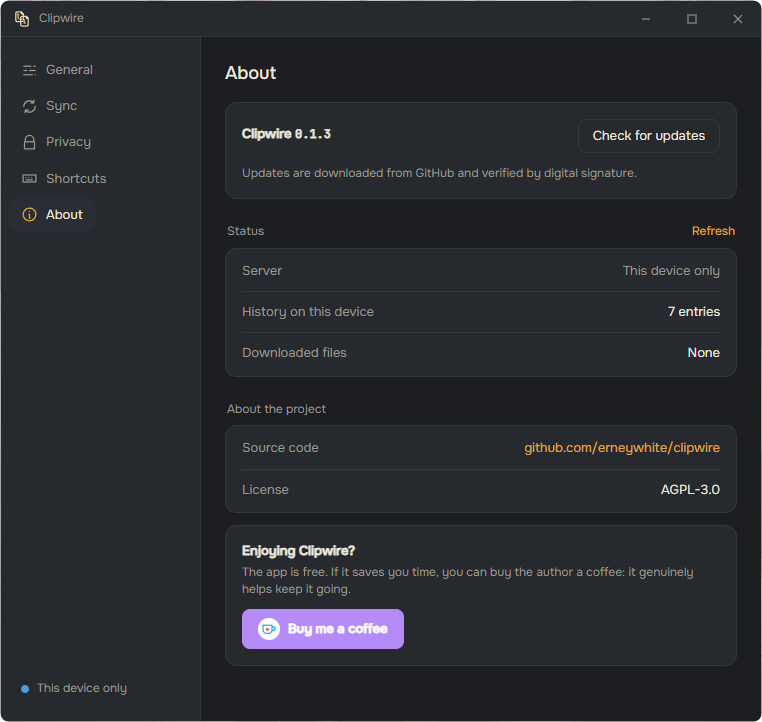
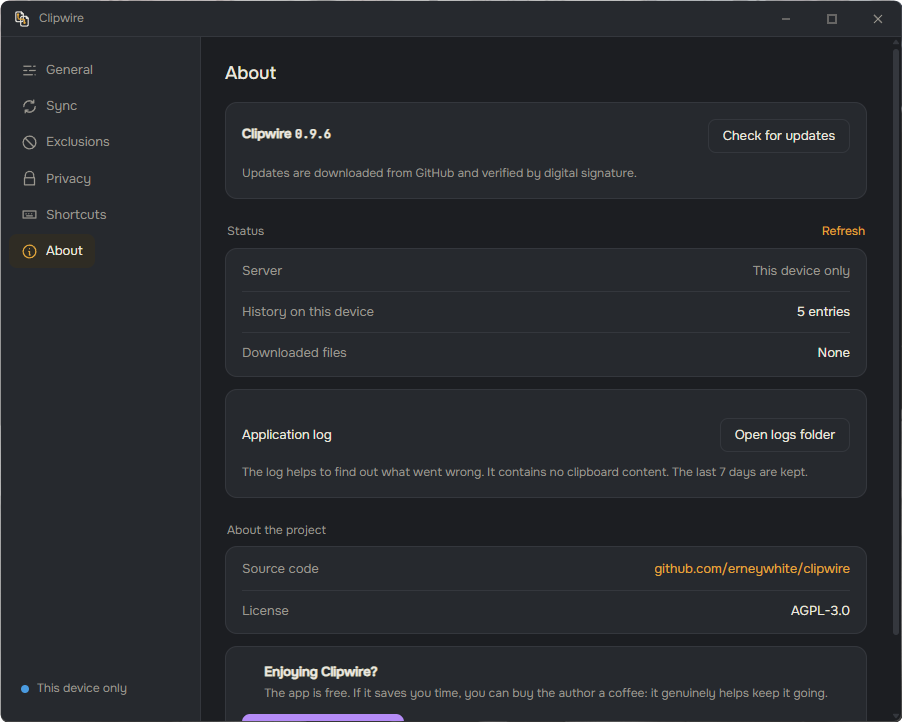
Новые скриншоты для README и превью репозитория
Пересняты с чистого экземпляра на демо-данных: окно вставки, предпросмотр,
«Основные», «Синхронизация», «О программе» и новый снимок «Исключений».

diff --git a/README.ru.md b/README.ru.md
@@ -274,6 +274,10 @@ Clipwire там идут через XWayland, чтобы программа са
 
 ## Исключения
 
+<p align="center">
+  <img src="docs/screenshots/settings-exclusions.png" width="600" alt="Исключения: что отправлять и правила для файлов и папок">
+</p>
+
 На вкладке «Исключения» в настройках собрано, что не уходит на другие устройства:
 - переключатели «Что отправлять»: текст, картинки, файлы, папки;
 - правила для файлов и папок: условие (расширение, имя начинается с, содержит, по маске со `*` и

diff --git a/README.md b/README.md
@@ -273,6 +273,10 @@ portal (the desktop may ask to confirm once). On Sway, which has none of these, 
 
 ## Exclusions
 
+<p align="center">
+  <img src="docs/screenshots/settings-exclusions.png" width="600" alt="Exclusions: what to send and rules for files and folders">
+</p>
+
 The **Exclusions** tab in settings gathers what doesn't go to other devices:
 - the **What to send** switches: text, images, files, folders;
 - rules for files and folders: a condition (extension, name starts with, contains, matches a mask
